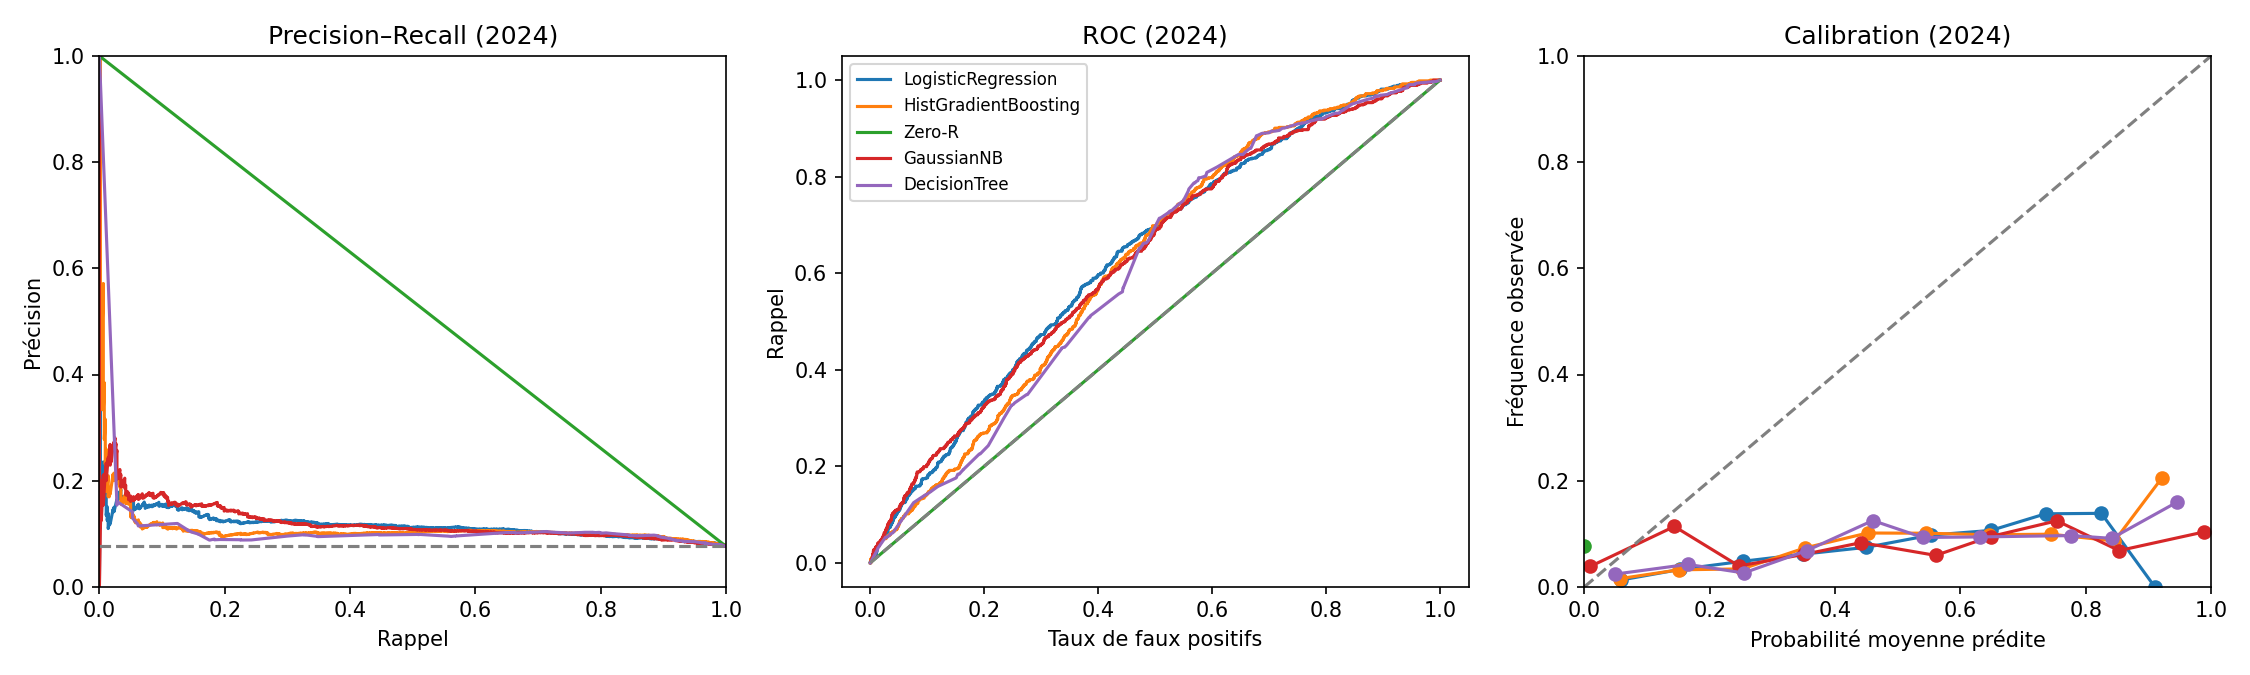
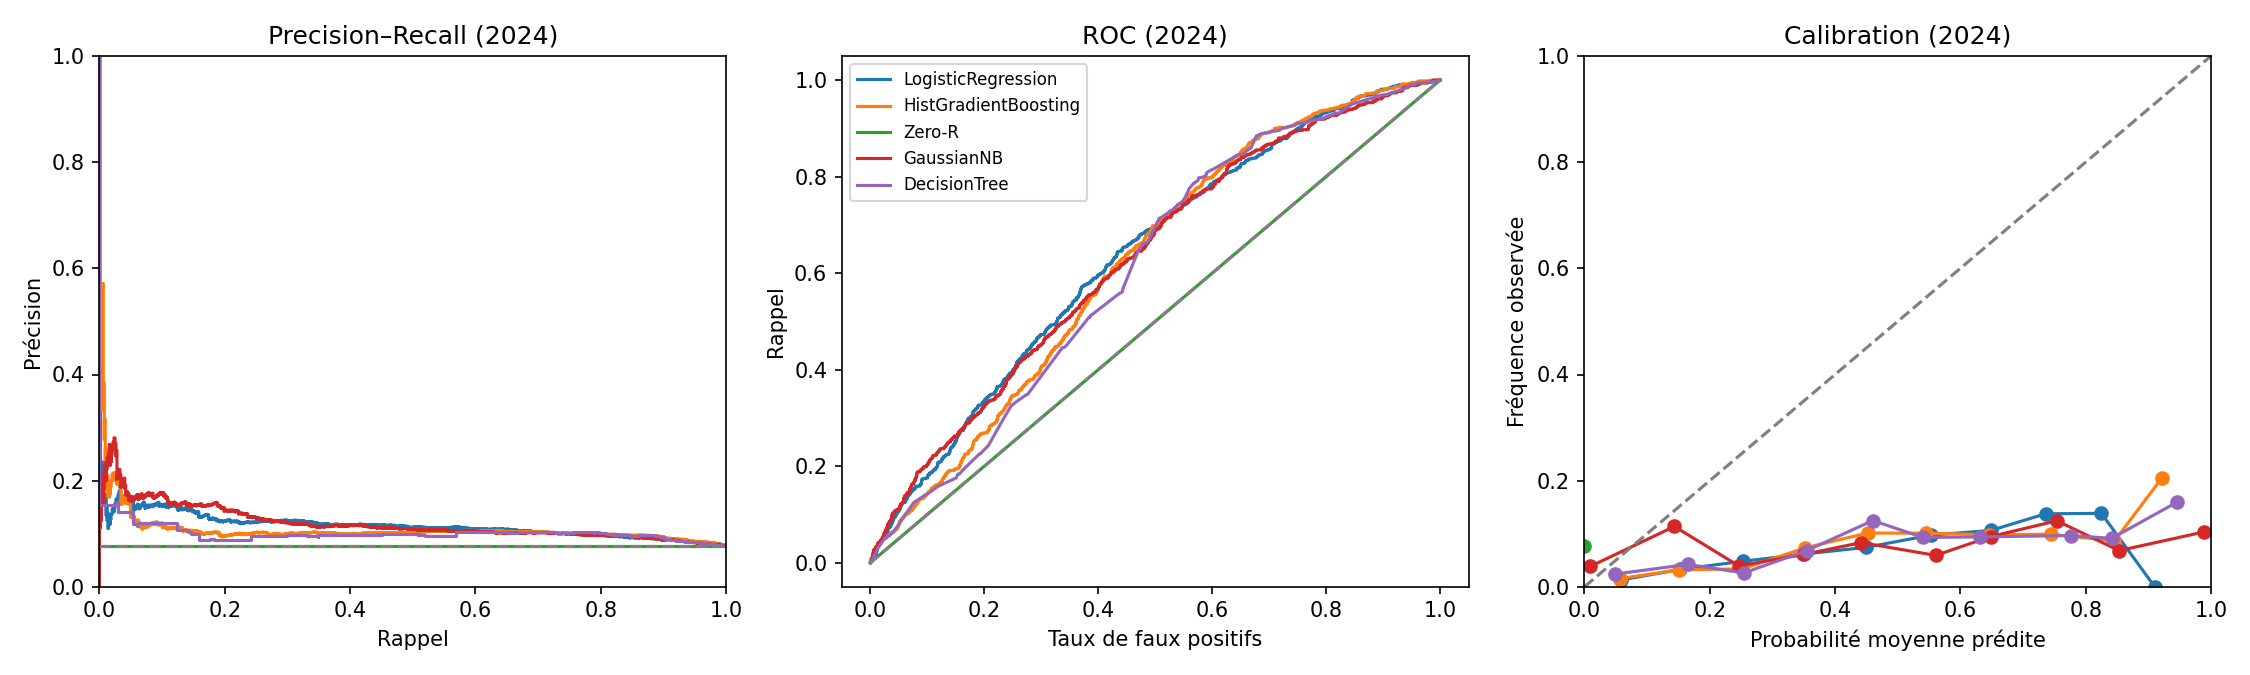
test(science): verify artifact reproducibility protected files and held-out isolation

Changed region(s): [[0.0311, 0.6222, 0.3111, 0.8089], [0.0311, 0.0933, 0.0622, 0.1244]]

diff --git a/tests/siad03_extensions/test_artifacts.py b/tests/siad03_extensions/test_artifacts.py
@@ -1,0 +1,48 @@
+"""Tests d'intégration des résultats réellement produits (pas de réentraînement)."""
+import json
+import joblib
+import numpy as np
+import pandas as pd
+from pandas.testing import assert_frame_equal
+from src.siad03_extensions.data import ROOT, load_development
+from src.siad03_extensions.evaluation import metrics
+
+
+def test_predictions_and_existing_metrics_are_reproduced():
+    folder = ROOT/'results/siad03_extensions/benchmark'
+    pred = pd.read_csv(folder/'predictions_validation.csv', parse_dates=['date'])
+    train, val, features, _ = load_development()
+    assert_frame_equal(pred[['cell_id','date','label']], val[['cell_id','date','label']], check_dtype=False)
+    scores = pd.read_csv(folder/'metrics.csv').set_index('model')
+    old = pd.concat([pd.read_csv(ROOT/'results/resultats_zeror_nb_validation.csv'),
+                    pd.read_csv(ROOT/'results/resultats_arbre_decision_validation.csv')]).set_index('model')
+    for name in scores.index:
+        got = metrics(pred.label, pred[name])
+        for key in ['f1','roc_auc','average_precision','brier','tn','fp','fn','tp']:
+            assert np.isclose(got[key], scores.loc[name,key])
+        if name in old.index:
+            for key in ['f1','roc_auc','average_precision']:
+                assert np.isclose(got[key], old.loc[name,'val2024_'+key])
+        else:
+            model = joblib.load(folder/f'{name}.joblib')
+            np.testing.assert_allclose(model.predict_proba(val[features])[:,1],pred[name])
+        for group in ['month','season','spatial_block','temp_max_bin','rh_mean_bin','precip_sum_bin','seen_cell']:
+            errors = pd.read_csv(folder/f'{name}_errors_{group}.csv')
+            assert errors.n.sum() == len(val)
+            for key in ['tn','fp','fn','tp']: assert errors[key].sum() == got[key]
+    summary = json.loads((folder/'search_summary.json').read_text())
+    for name in summary:
+        cv = pd.read_csv(folder/f'{name}_cv.csv')
+        assert len(cv) == summary[name]['candidates']
+        assert len([c for c in cv if c.startswith('split') and c.endswith('_test_f1')]) == 5
+        assert np.isclose(cv.mean_test_f1.max(),summary[name]['cv_f1'])
+
+
+def test_statistics_reproduced_and_test_values_unused(monkeypatch):
+    from src.siad03_extensions import data
+    raw = pd.read_csv(ROOT/'Dataset/dataset.csv')
+    expected = load_development()[:2]
+    raw.loc[raw.split.eq('test'), ['label','temp_max']] = -999
+    monkeypatch.setattr(data.pd, 'read_csv', lambda *a, **k: raw.copy())
+    actual = load_development()[:2]
+    for a,b in zip(expected,actual): assert_frame_equal(a,b)

diff --git a/src/siad03_extensions/explain.py b/src/siad03_extensions/explain.py
@@ -53,7 +53,7 @@ def run(benchmark, output):
         score = predictions[name]
         p,r,_ = precision_recall_curve(predictions.label, score)
         fpr,tpr,_ = roc_curve(predictions.label,score)
-        axes[0].plot(r,p,label=name); axes[1].plot(fpr,tpr,label=name)
+        axes[0].step(r,p,where='post',label=name); axes[1].plot(fpr,tpr,label=name)
         cal = pd.read_csv(benchmark/f'{name}_calibration.csv')
         axes[2].plot(cal.predicted,cal.observed,marker='o',label=name)
     axes[0].axhline(predictions.label.mean(),color='gray',ls='--')
